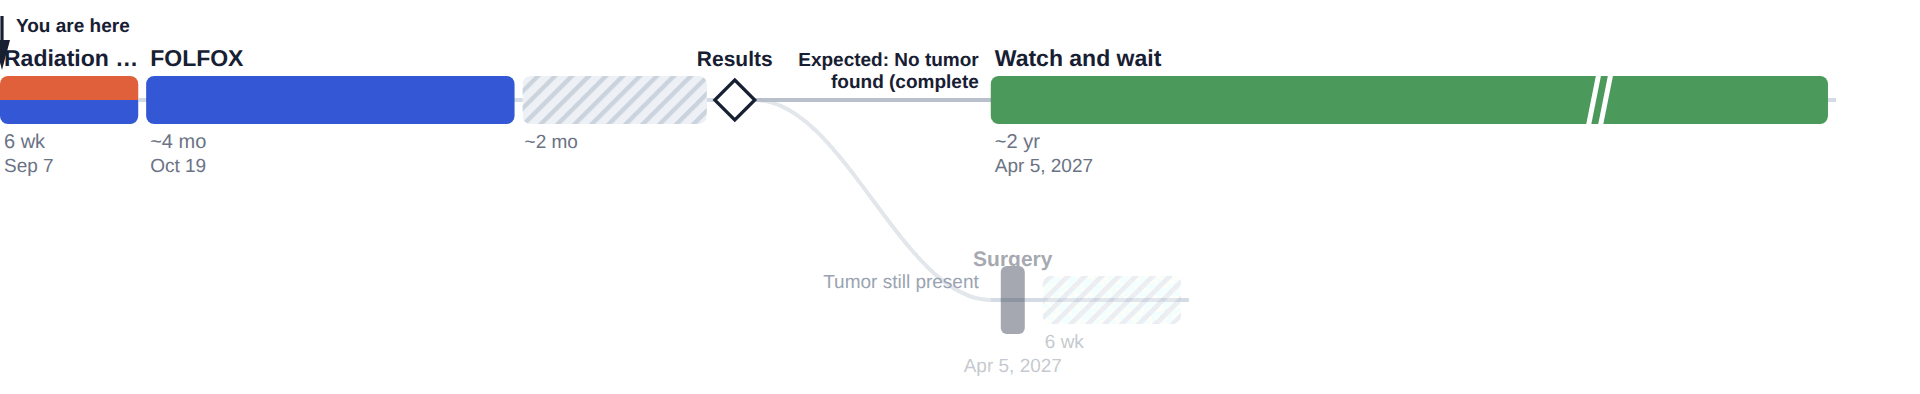
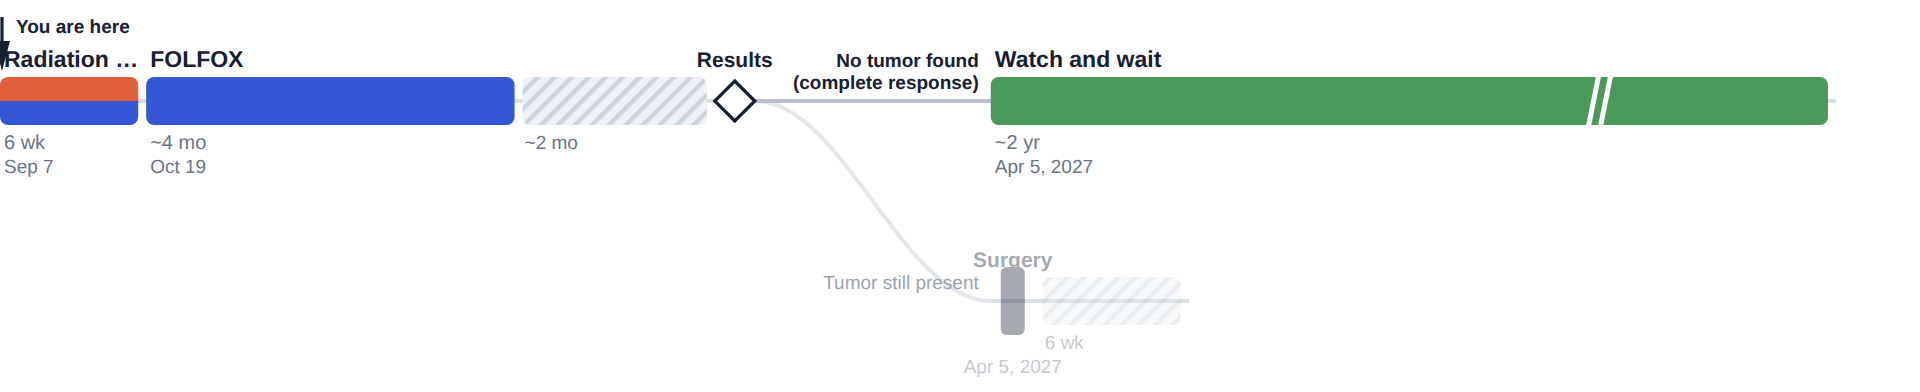
Stop labelling a decision branch "expected" on the patient page
A decision node's `emph` flag rendered as the word "expected" in four
patient-facing places: the map fork label, the "Expected path" /
"If results differ" tags in the step list, the overall duration line,
and the sheet footer. On a map handed to a patient, "Expected: no
remaining cancer" reads as a prediction about their outcome rather than
a description of the plan, which CLAUDE.md already forbids in `plain`
text. Nothing clinical stood behind the label either: no pathway sets
`emph`, and the demo deep link sets it to 0 on every decision, so the
landing-page example labelled whichever branch happened to be listed
first as the expected one.

Position and weight already carry the emphasis, so the word was
redundant:

- The emphasised branch now renders first, on the map and in the step
  list. It keeps the bold label and dark left rule; the alternative
  stays dimmed and in view.
- Both branch tags are gone. The headings already state the condition.
- The overall duration no longer reports the emphasised branch alone,
  matching what the comparison view already did.
- The footer now says "the planned steps and approximate timing".
- The editor controls are renamed "Show first" and "Show only this
  path", naming what they do rather than asserting an outcome.

Regenerated hero.png, route-kn522.png, decision.png and the unused
decision-opra.png, which had the old wording baked in.

Verified: all 48 pathways render in normal and demo mode with no page
[…]

diff --git a/app.html b/app.html
@@ -176,7 +176,6 @@ body.patient .main{padding:24px 20px 60px}
 .branch.dim{opacity:.55}
 .branch h4{margin:0 0 8px;font-size:13px;display:flex;align-items:center;gap:8px;flex-wrap:wrap}
 .tag{font-size:10.5px;padding:2px 7px;border-radius:999px;background:var(--ink);color:#fff;font-weight:600}
-.tag.alt{background:transparent;border:1px solid var(--line);color:var(--muted)}
 .branch .steps{grid-template-columns:1fr;gap:8px;margin:0}
 .visits{margin:6px 0 0;padding:0;list-style:none;font-size:11.5px;color:var(--ink-2)}
 .visits li{display:flex;gap:8px;padding:2px 0;border-top:1px dotted var(--line)}
@@ -511,8 +510,11 @@ function nodeSummary(n){
   return '';
 }
 function visibleBranches(n){
-  if (n.only && n.emph !== null && n.emph !== undefined && n.branches[n.emph]) return [{ b: n.branches[n.emph], idx: n.emph }];
-  return n.branches.map((b, idx) => ({ b, idx }));
+  const em = (n.emph === null || n.emph === undefined || !n.branches[n.emph]) ? null : n.emph;
+  if (n.only && em !== null) return [{ b: n.branches[em], idx: em }];
+  const vis = n.branches.map((b, idx) => ({ b, idx }));
+  if (em !== null) vis.unshift(vis.splice(em, 1)[0]);
+  return vis;
 }
 
 /* ===================== state ===================== */
@@ -658,9 +660,9 @@ function fieldsFor(n, path){
     <div class="f"><label>How the patient sees the paths</label>
       <div class="radios">
         <label><input type="radio" name="emph-${n.id}" ${P_} data-k="emph" value="both" ${n.emph == null ? 'checked' : ''}> Show both equally</label>
-        ${n.branches.map((b, i) => `<label><input type="radio" name="emph-${n.id}" ${P_} data-k="emph" value="${i}" ${n.emph === i ? 'checked' : ''}> Expected: ${esc(b.cond)}</label>`).join('')}
+        ${n.branches.map((b, i) => `<label><input type="radio" name="emph-${n.id}" ${P_} data-k="emph" value="${i}" ${n.emph === i ? 'checked' : ''}> Show first: ${esc(b.cond)}</label>`).join('')}
       </div>
-      <label class="chk"><input type="checkbox" ${P_} data-k="only" ${n.only ? 'checked' : ''} ${n.emph == null ? 'disabled' : ''}> Show only the expected path</label>
+      <label class="chk"><input type="checkbox" ${P_} data-k="only" ${n.only ? 'checked' : ''} ${n.emph == null ? 'disabled' : ''}> Show only this path</label>
     </div>
     ${n.branches.map((b, i) => `<div class="branch-ed"><div class="f"><label>Path ${i + 1}: shown when…</label><div style="display:flex;gap:6px"><input type="text" data-bp="${path}.${i}" data-k="cond" value="${esc(b.cond)}">${n.branches.length > 2 ? `<button type="button" class="ibtn" title="Remove this path" data-act="delbranch" data-bp="${path}.${i}">✕</button>` : ''}</div></div>
       <div style="margin-top:8px">${renderNodes(b.nodes, `${path}.${i}`, false, assignColors(state.regimen))}</div></div>`).join('')}
@@ -805,12 +807,12 @@ function layout(nodes, cfg){
           const r = row + bi;
           const isExp = n.emph === v.idx;
           const dimB = dim || (n.emph != null && !isExp);
-          ctx.forks.push({ fx:x + C.diamond, frow:row, tx:bx, trow:r, cond:v.b.short || v.b.cond, expected:isExp, single:vis.length === 1, dim:dimB, decided:n.emph != null });
+          ctx.forks.push({ fx:x + C.diamond, frow:row, tx:bx, trow:r, cond:v.b.short || v.b.cond, expected:isExp, single:vis.length === 1, dim:dimB });
           const res = place(v.b.nodes, bx, week, r, dimB);
           ends.push({ x:res.x, row:r });
           ctx.rows = Math.max(ctx.rows, r + 1);
           ext(r, bx, Math.max(bx + 1, res.x));
-          ctx.branchTotals.push({ expected:isExp, decided:n.emph != null, treat:res.treat, end:res.week });
+          ctx.branchTotals.push({ treat:res.treat, end:res.week });
           maxX = Math.max(maxX, res.x); maxWeek = Math.max(maxWeek, res.week); maxTreat = Math.max(maxTreat, res.treat);
         });
         x = maxX; week = maxWeek; treat = maxTreat; lastStart = x; lastWeek = week;
@@ -847,9 +849,8 @@ function layout(nodes, cfg){
   // totals in weeks of treatment (excluding monitoring, hormone-only, open-ended tablets)
   const bt = ctx.branchTotals;
   if (bt.length){
-    const exp = bt.find(b => b.expected);
-    ctx.total = { min:Math.min(...bt.map(b => b.treat)) - 1, max:Math.max(...bt.map(b => b.treat)) - 1, expected: exp ? exp.treat - 1 : null };
-  } else ctx.total = { min:res.treat - 1, max:res.treat - 1, expected:null };
+    ctx.total = { min:Math.min(...bt.map(b => b.treat)) - 1, max:Math.max(...bt.map(b => b.treat)) - 1 };
+  } else ctx.total = { min:res.treat - 1, max:res.treat - 1 };
   return ctx;
 }
 
@@ -883,7 +884,7 @@ function renderRoute(ctx, startDate, colors, here){
   for (let r = 0; r < ctx.rows; r++){ const e = ctx.rowExt[r]; if (!e || !isFinite(e.min)) continue; g += `<line x1="${e.min}" y1="${cy(r)}" x2="${e.max}" y2="${cy(r)}" stroke="#D9DEE7" stroke-width="2"/>`; }
   for (const f of ctx.forks){
     g += curve(f.fx, cy(f.frow), f.tx, cy(f.trow), f.dim);
-    const lines = wrapText((f.decided && f.expected ? 'Expected: ' : '') + f.cond, 21);
+    const lines = wrapText(f.cond, 21);
     if (f.single){ lines.forEach((ln, i) => { g += T(f.fx + 8, cy(f.frow) + 24 + i * 11, ln, { size:9.5, fill:'#3B4557', weight:600 }); }); }
     else { const base = cy(f.trow) - 6 - (lines.length - 1) * 11; lines.forEach((ln, i) => { g += T(f.tx - 6, base + i * 11, ln, { size:9.5, anchor:'end', fill: f.dim ? '#9AA3B2' : '#172033', weight: f.expected ? 700 : 400 }); }); }
   }
@@ -987,8 +988,7 @@ function stepsHtml(nodes, start, ctx, startDate, detail, colors){
         const isExp = n.emph === v.idx, decided = n.emph != null;
         const inner = stepsHtml(v.b.nodes, num, ctx, startDate, detail, colors);
         next = Math.max(next, inner.next);
-        const tag = decided ? (isExp ? `<span class="tag">Expected path</span>` : `<span class="tag alt">If results differ</span>`) : '';
-        return `<div class="branch${decided ? (isExp ? ' expected' : ' dim') : ''}"><h4>${esc(v.b.cond)} ${tag}</h4><ol class="steps">${inner.html}</ol></div>`;
+        return `<div class="branch${decided ? (isExp ? ' expected' : ' dim') : ''}"><h4>${esc(v.b.cond)}</h4><ol class="steps">${inner.html}</ol></div>`;
       });
       parts.push(`<li class="fork"><h3>${esc(n.question || n.name)}</h3>${n.plain ? `<p>${esc(n.plain)}</p>` : ''}<div class="branches">${cols.join('')}</div></li>`);
       num = next; lastIdx = -1;
@@ -1015,7 +1015,6 @@ function totalText(ctx, nodes){
   const t = ctx.total;
   if (!t || t.max <= 0) return '';
   const tail = nodes && hasEndocrineTail(nodes) ? ', followed by hormone tablets' : '';
-  if (t.expected != null) return `Overall: ${durLong(t.expected)} of treatment on the expected path${tail}.`;
   if (t.max - t.min >= 4) return `Overall: ${rangeText(t.min, t.max)} of treatment, depending on results${tail}.`;
   return `Overall: ${durLong(t.max)} of treatment${tail}.`;
 }
@@ -1048,7 +1047,7 @@ function renderSheet(){
     <section class="route">${renderRoute(ctx, startDate, colors, herePos(ctx))}</section>
     <ol class="steps${o.progressBoxes ? ' withboxes' : ''}">${steps.html}</ol>
     ${bottomHtml(o)}
-    <footer class="sh-foot"><div><div class="legend">${legend}</div>This page shows the expected plan and approximate timing. Your care team sets the actual dates, which can shift with test results and how you are feeling. It does not replace your appointment schedule.${o.contact ? `<br><b style="color:var(--ink-2)">${esc(o.contact)}</b>` : ''}<br><span class="wm">ONCourse</span></div><div class="qrwrap" id="sheetqr"></div></footer>`;
+    <footer class="sh-foot"><div><div class="legend">${legend}</div>This page shows the planned steps and approximate timing. Your care team sets the actual dates, which can shift with test results and how you are feeling. It does not replace your appointment schedule.${o.contact ? `<br><b style="color:var(--ink-2)">${esc(o.contact)}</b>` : ''}<br><span class="wm">ONCourse</span></div><div class="qrwrap" id="sheetqr"></div></footer>`;
   $('#tb-title').textContent = r.title || r.name;
   renderSheetQr();
 }

diff --git a/regimens.js b/regimens.js
@@ -983,8 +983,9 @@ const LIBRARY = [
 },
 ];
 
-const APP_VERSION = '0.5.1';
+const APP_VERSION = '0.6.0';
 const CHANGELOG = [
+  { date:'2026-09-01', text:'Decision points no longer label a branch "expected". The map and the step list lead with the path the team is planning around and keep the alternative in view, without predicting which outcome a person will have. The overall duration no longer follows one assumed outcome; it covers all the possible paths.' },
   { date:'2026-09-01', text:'Breast: added the genomic-assay pathway (Oncotype DX / MammaPrint) with a fork to chemotherapy plus radiation and endocrine therapy or radiation and endocrine therapy alone, with an optional adjuvant CDK4/6 inhibitor. Kidney: added LITESPARK-022 belzutifan + pembrolizumab (FDA-approved June 2026). Nasopharynx: added chemoradiation alone and chemoradiation followed by adjuvant cisplatin + 5-FU alongside the induction pathway.' },
   { date:'2026-09-01', text:'New categories: head and neck (definitive chemoradiation, surgery with pathology-guided radiation, KEYNOTE-689 perioperative pembrolizumab, nasopharyngeal induction then chemoradiation) and melanoma (NADINA, SWOG S1801, adjuvant immunotherapy, adjuvant dabrafenib + trametinib). GI additions: ATOMIC for mismatch-repair-deficient stage III colon cancer (NCCN-listed; FDA decision expected October 2026) and anal canal chemoradiation with response-guided salvage surgery.' },
   { date:'2026-09-01', text:'Added ctDNA-guided adjuvant atezolizumab for muscle-invasive bladder cancer after cystectomy (IMvigor011; FDA-approved May 2026 with Signatera as the companion test). The regimen picker is now searchable by drug, trial, or cancer type.' },

diff --git a/index.html b/index.html
@@ -62,7 +62,7 @@
 <section id="forks"><div class="wrap two">
   <div>
     <h2>Cancer treatment isn't a straight line.</h2>
-    <p class="sub">Surgery, pathology, imaging, and how a person responds can all change what comes next. ONCourse draws those decision points as real forks, marks the expected path, and keeps the alternative in view.</p>
+    <p class="sub">Surgery, pathology, imaging, and how a person responds can all change what comes next. ONCourse draws those decision points as real forks, leads with the path the team is planning around, and keeps the alternative in view.</p>
     <p class="pull small">ONCourse shows not just what happens next, but what might change the path.</p>
   </div>
   <div class="imgcard"><img src="decision.png" alt="A treatment map with a pathology decision point: one branch continues HER2 antibodies, the other switches to trastuzumab deruxtecan" width="2236" height="580"></div>
@@ -99,7 +99,7 @@
     <ul class="checks">
       <li><b>Start from an evidence-reviewed pathway</b> with its sources and review date.</li>
       <li><b>Customize it in minutes,</b> then save your own versions and share a library.</li>
-      <li><b>Show conditional paths</b> and mark the expected one.</li>
+      <li><b>Show conditional paths</b> and lead with the one the team is planning around.</li>
       <li><b>Compare options</b> side by side, on one time scale, for the decision visit.</li>
       <li><b>Print or share,</b> Letter or A4, always one page.</li>
     </ul>
